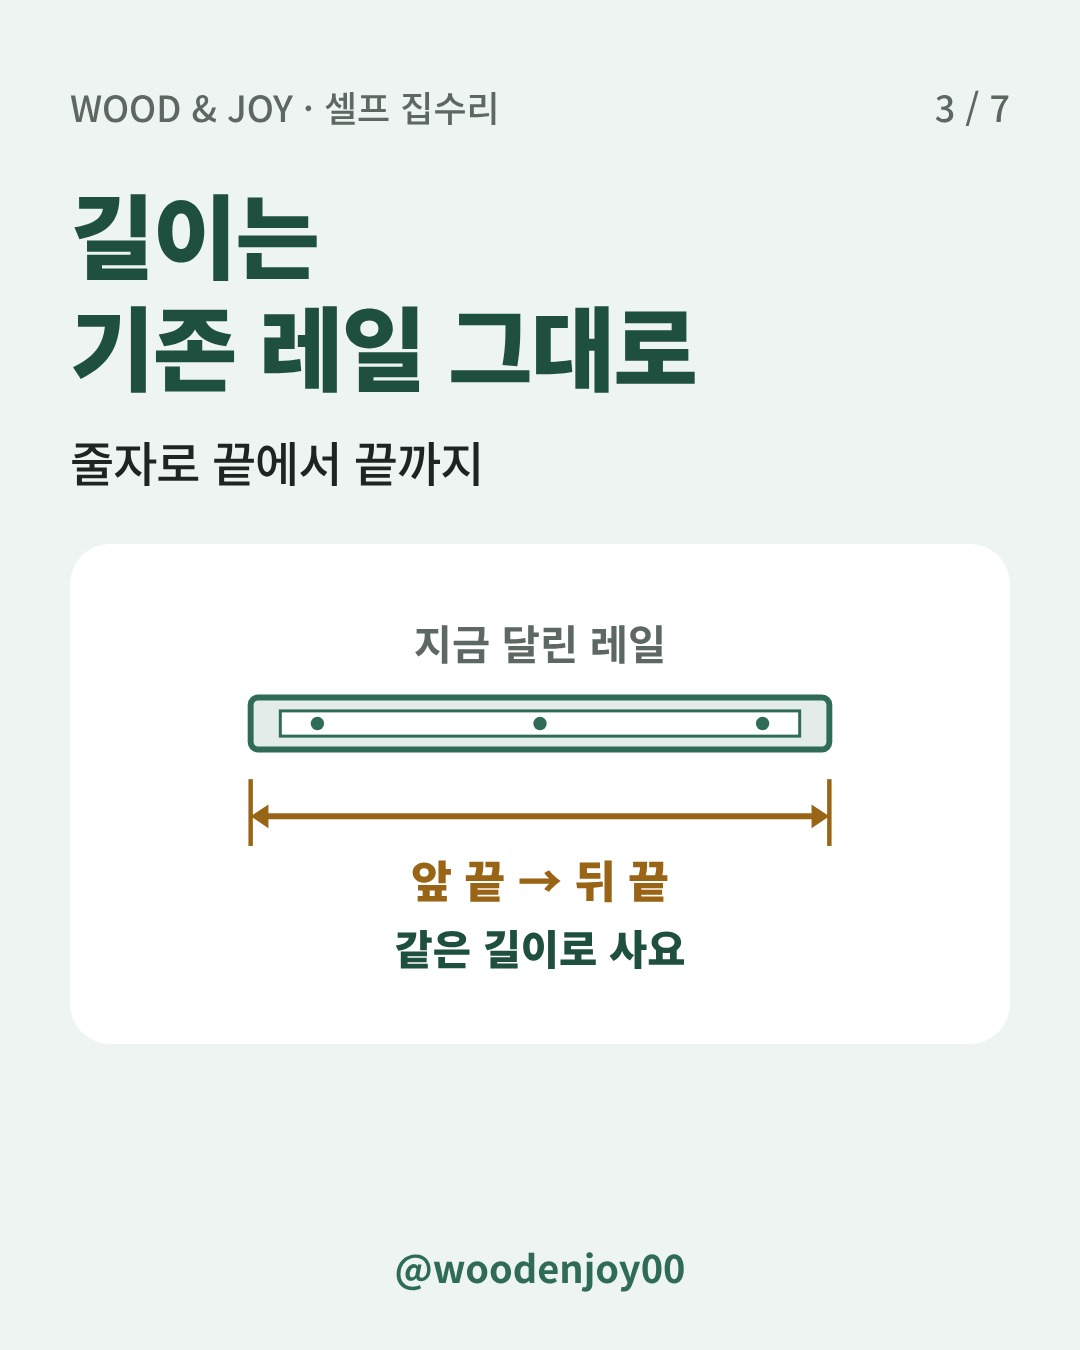
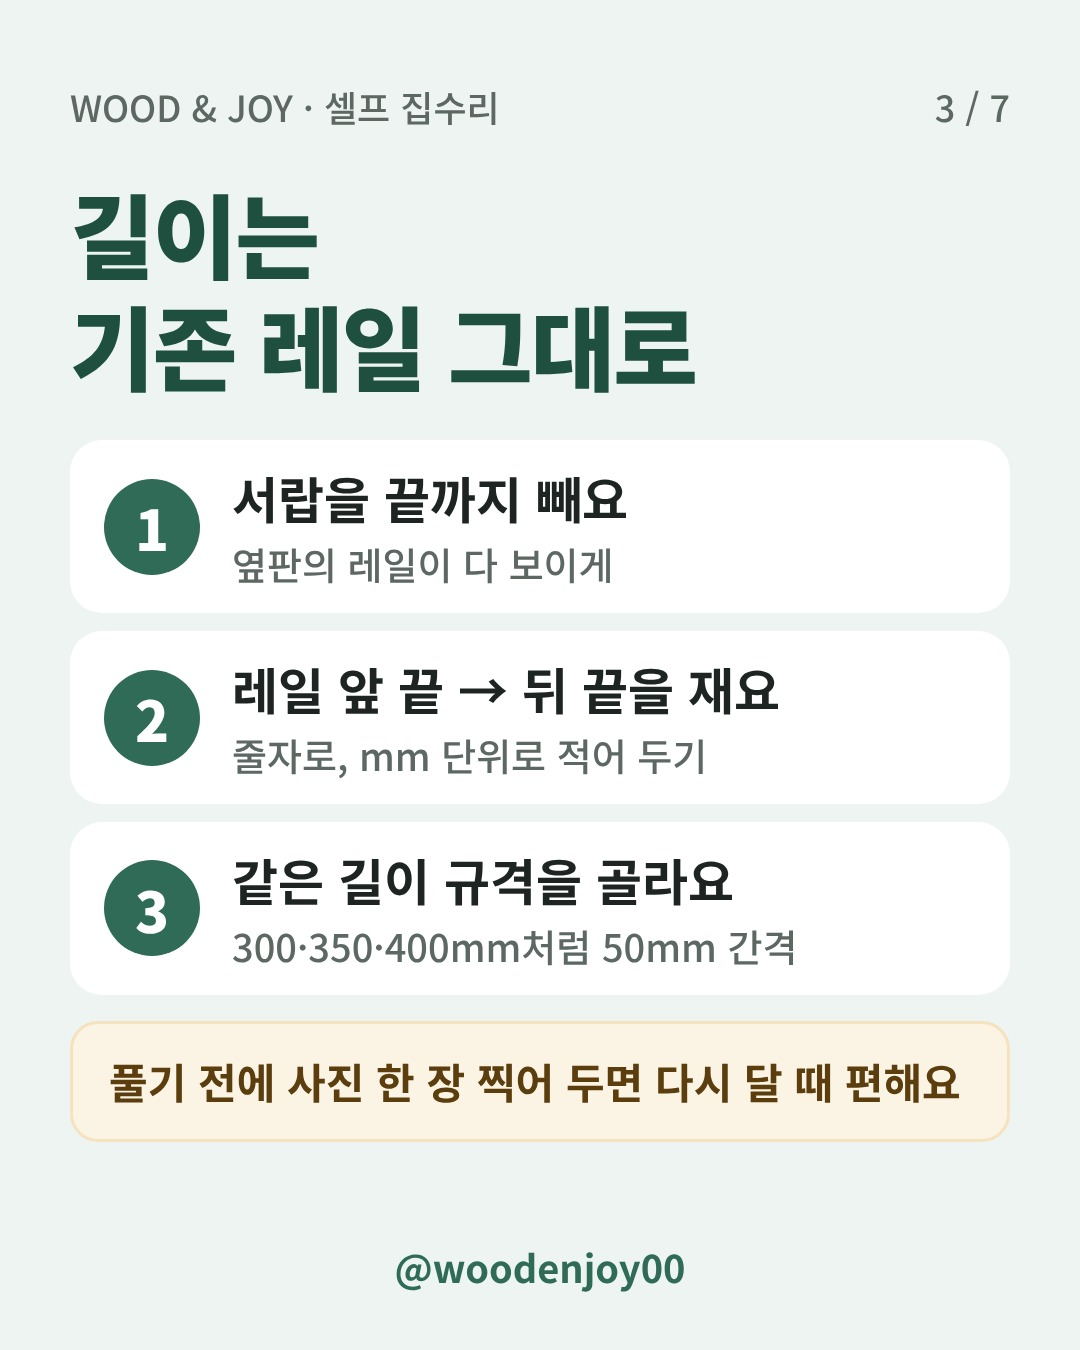
카드 3장 순서형으로 바꾸고 4장 색 변경 (3·5장 비슷함 점검 실패 수정)
Claude-Session: https://claude.ai/code/session_01Bpk9YfjAm6hznCa1VbvWH8

diff --git a/posts/2026-10-30-drawer-rail-length/cards/preview.html b/posts/2026-10-30-drawer-rail-length/cards/preview.html
@@ -56,8 +56,8 @@ svg text{font-family:"Noto Sans CJK KR",sans-serif}
 <section class="slide" id="s3">
   <div class="top"><span>WOOD &amp; JOY · 셀프 집수리</span><span>3 / 7</span></div>
   <h1 class="title" data-lines="2">길이는<br>기존 레일 그대로</h1>
-  <p class="sub" data-lines="1">줄자로 끝에서 끝까지</p>
-  <div class="card" style="height:500px;"><svg width="700" height="460" viewBox="0 0 940 620" aria-label="기존 레일을 끝에서 끝까지 재기"><rect x="80" y="180" width="780" height="70" rx="10" fill="#E3ECE8" stroke="#2F6B57" stroke-width="8"/><rect x="120" y="198" width="700" height="34" fill="#FFFFFF" stroke="#2F6B57" stroke-width="4"/><circle cx="170" cy="215" r="9" fill="#2F6B57"/><circle cx="470" cy="215" r="9" fill="#2F6B57"/><circle cx="770" cy="215" r="9" fill="#2F6B57"/><line x1="80" y1="290" x2="80" y2="380" stroke="#9A6416" stroke-width="6"/><line x1="860" y1="290" x2="860" y2="380" stroke="#9A6416" stroke-width="6"/><line x1="102" y1="340" x2="838" y2="340" stroke="#9A6416" stroke-width="8"/><path d="M80 340 l24 -16 l0 32 z M860 340 l-24 -16 l0 32 z" fill="#9A6416"/><text x="470" y="450" text-anchor="middle" font-size="60" font-weight="900" fill="#9A6416">앞 끝 → 뒤 끝</text><text x="470" y="540" text-anchor="middle" font-size="56" font-weight="800" fill="#1F4F3F">같은 길이로 사요</text><text x="470" y="130" text-anchor="middle" font-size="56" font-weight="700" fill="#5D6863">지금 달린 레일</text></svg></div>
+  
+  <div class="steps"><div class="step"><div class="num">1</div><div><p class="d">서랍을 끝까지 빼요</p><p class="s">옆판의 레일이 다 보이게</p></div></div><div class="step"><div class="num">2</div><div><p class="d">레일 앞 끝 → 뒤 끝을 재요</p><p class="s">줄자로, mm 단위로 적어 두기</p></div></div><div class="step"><div class="num">3</div><div><p class="d">같은 길이 규격을 골라요</p><p class="s">300·350·400mm처럼 50mm 간격</p></div></div></div><p class="tip">풀기 전에 사진 한 장 찍어 두면 다시 달 때 편해요</p>
   
   <div class="foot">@woodenjoy00</div>
 </section>
@@ -65,7 +65,7 @@ svg text{font-family:"Noto Sans CJK KR",sans-serif}
   <div class="top"><span>WOOD &amp; JOY · 셀프 집수리</span><span>4 / 7</span></div>
   <h1 class="title" data-lines="2">레일이 없으면<br>서랍 깊이보다 짧게</h1>
   <p class="sub" data-lines="1">앞판은 빼고 몸통만 재요</p>
-  <div class="card" style="height:580px;"><svg width="700" height="540" viewBox="0 0 940 720" aria-label="서랍 몸통 깊이와 고를 레일 길이"><rect x="60" y="80" width="40" height="300" fill="#F6E2BF" stroke="#2F6B57" stroke-width="6"/><rect x="100" y="80" width="720" height="300" fill="#FFFFFF" stroke="#2F6B57" stroke-width="10"/><text x="460" y="250" text-anchor="middle" font-size="62" font-weight="900" fill="#1F4F3F">몸통 480mm</text><line x1="100" y1="430" x2="775" y2="430" stroke="#2F6B57" stroke-width="16" stroke-linecap="round"/><line x1="100" y1="540" x2="850" y2="540" stroke="#9A6416" stroke-width="16" stroke-linecap="round" stroke-dasharray="30 18"/><text x="460" y="500" text-anchor="middle" font-size="56" font-weight="900" fill="#2F6B57">450mm  ○</text><text x="460" y="620" text-anchor="middle" font-size="56" font-weight="900" fill="#9A6416">500mm  ×</text><text x="460" y="700" text-anchor="middle" font-size="56" font-weight="800" fill="#1F4F3F">애매하면 짧은 쪽</text></svg></div>
+  <div class="card" style="height:580px;"><svg width="700" height="540" viewBox="0 0 940 720" aria-label="서랍 몸통 깊이와 고를 레일 길이"><rect x="60" y="80" width="40" height="300" fill="#F6E2BF" stroke="#2F6B57" stroke-width="6"/><rect x="100" y="80" width="720" height="300" fill="#2F6B57" stroke="#2F6B57" stroke-width="10"/><text x="460" y="250" text-anchor="middle" font-size="62" font-weight="900" fill="#FFFFFF">몸통 480mm</text><line x1="100" y1="430" x2="775" y2="430" stroke="#2F6B57" stroke-width="16" stroke-linecap="round"/><line x1="100" y1="540" x2="850" y2="540" stroke="#9A6416" stroke-width="16" stroke-linecap="round" stroke-dasharray="30 18"/><text x="460" y="500" text-anchor="middle" font-size="56" font-weight="900" fill="#2F6B57">450mm  ○</text><text x="460" y="620" text-anchor="middle" font-size="56" font-weight="900" fill="#9A6416">500mm  ×</text><text x="460" y="700" text-anchor="middle" font-size="56" font-weight="800" fill="#1F4F3F">애매하면 짧은 쪽</text></svg></div>
   
   <div class="foot">@woodenjoy00</div>
 </section>
@@ -73,7 +73,7 @@ svg text{font-family:"Noto Sans CJK KR",sans-serif}
   <div class="top"><span>WOOD &amp; JOY · 셀프 집수리</span><span>5 / 7</span></div>
   <h1 class="title" data-lines="2">옆 틈은<br>한쪽 12.7mm 정도</h1>
   <p class="sub" data-lines="1">좁으면 끼어서 뻑뻑해요</p>
-  <div class="card" style="height:580px;"><svg width="700" height="540" viewBox="0 0 940 780" aria-label="수납장 안쪽 폭과 서랍 폭으로 한쪽 틈 재기"><rect x="60" y="60" width="820" height="420" fill="#FFFFFF" stroke="#2F6B57" stroke-width="12"/><rect x="150" y="130" width="640" height="300" fill="#DCEBE3" stroke="#2F6B57" stroke-width="8"/><text x="470" y="300" text-anchor="middle" font-size="60" font-weight="900" fill="#1F4F3F">서랍 폭 400</text><line x1="88" y1="200" x2="128" y2="200" stroke="#9A6416" stroke-width="8"/><path d="M66 200 l24 -16 l0 32 z M150 200 l-24 -16 l0 32 z" fill="#9A6416"/><line x1="812" y1="200" x2="852" y2="200" stroke="#9A6416" stroke-width="8"/><path d="M790 200 l24 -16 l0 32 z M874 200 l-24 -16 l0 32 z" fill="#9A6416"/><line x1="88" y1="560" x2="852" y2="560" stroke="#2F6B57" stroke-width="8"/><path d="M66 560 l24 -16 l0 32 z M874 560 l-24 -16 l0 32 z" fill="#2F6B57"/><text x="470" y="640" text-anchor="middle" font-size="60" font-weight="900" fill="#2F6B57">안쪽 폭 425</text><text x="470" y="735" text-anchor="middle" font-size="54" font-weight="800" fill="#9A6416">(425-400)÷2 = 12.5mm</text></svg></div>
+  <div class="card" style="height:580px;"><svg width="700" height="540" viewBox="0 0 940 780" aria-label="수납장 안쪽 폭과 서랍 폭으로 한쪽 틈 재기"><rect x="60" y="60" width="820" height="420" fill="#DCEBE3" stroke="#2F6B57" stroke-width="12"/><rect x="150" y="130" width="640" height="300" fill="#F6E2BF" stroke="#2F6B57" stroke-width="8"/><text x="470" y="300" text-anchor="middle" font-size="60" font-weight="900" fill="#1F4F3F">서랍 폭 400</text><line x1="88" y1="200" x2="128" y2="200" stroke="#9A6416" stroke-width="8"/><path d="M66 200 l24 -16 l0 32 z M150 200 l-24 -16 l0 32 z" fill="#9A6416"/><line x1="812" y1="200" x2="852" y2="200" stroke="#9A6416" stroke-width="8"/><path d="M790 200 l24 -16 l0 32 z M874 200 l-24 -16 l0 32 z" fill="#9A6416"/><line x1="88" y1="560" x2="852" y2="560" stroke="#2F6B57" stroke-width="8"/><path d="M66 560 l24 -16 l0 32 z M874 560 l-24 -16 l0 32 z" fill="#2F6B57"/><text x="470" y="640" text-anchor="middle" font-size="60" font-weight="900" fill="#2F6B57">안쪽 폭 425</text><text x="470" y="735" text-anchor="middle" font-size="54" font-weight="800" fill="#9A6416">(425-400)÷2 = 12.5mm</text></svg></div>
   
   <div class="foot">@woodenjoy00</div>
 </section>
